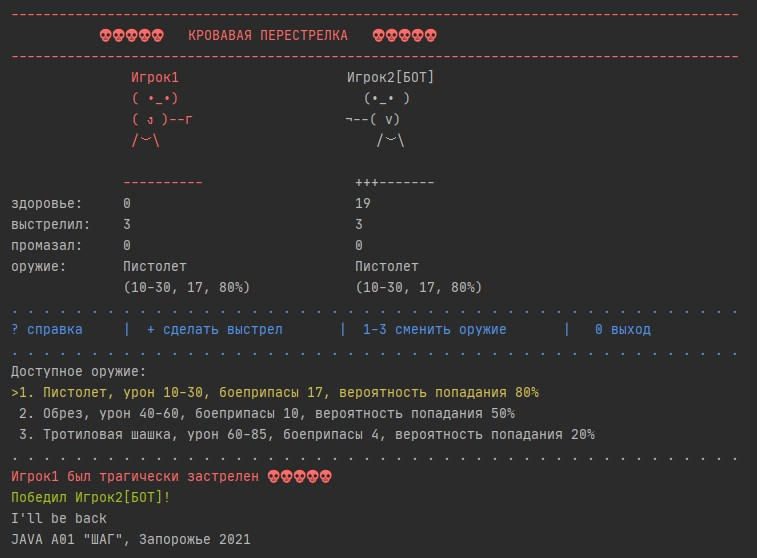
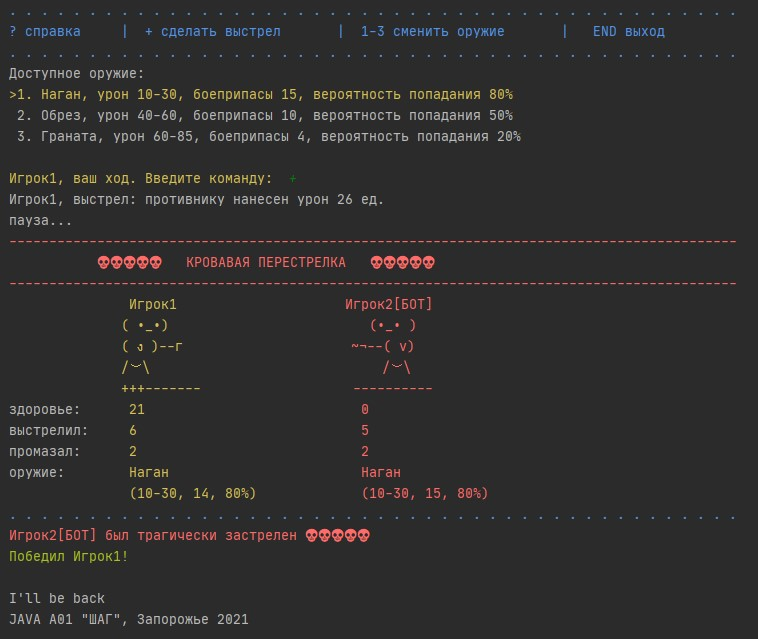
refactoring player, bot, game etc.

diff --git a/src/hw10_2_game_gunplay/Game.java b/src/hw10_2_game_gunplay/Game.java
@@ -4,21 +4,23 @@ import java.util.Scanner;
 
 public class Game {
 
-    private static final String VERSION = "ver.1.5";
+    private static final String VERSION = "ver.1.6";
     private static final String COLOR_FOCUS = Color.ANSI_YELLOW;
     private static final String COLOR_DEAD = Color.ANSI_RED;
     private static final String COLOR_HELP = Color.ANSI_BLUE;
     private static final String COLOR_FOOTER = Color.ANSI_BLUE;
     private static final String COLOR_HEADER = Color.ANSI_RED;
 
+
     private static final char POINTER = '>';
 
     private static final String NAME1 = "Игрок1";
     private static final String NAME2 = "Игрок2";
     private static final String KEY_HELP = "?";
-    private static final String KEY_SHOOT = "+";
+    public static final String KEY_SHOOT = "+";
     private static final String KEY_KILL = "#";
     private static final String KEY_EXIT = "END";
+    private static final String EMPTY_STR = "";
 
     private static final int MODE_PLAYER = 1;
     private static final int MODE_BOT = 2;
@@ -37,7 +39,6 @@ public class Game {
 
     //========== основной блок ==================
     public void go() {
-        String cmd;
         int mode = inputGameMode();
         initPlayers(mode);
         firstPlayer();  //фокус на первого игрока
@@ -46,12 +47,11 @@ public class Game {
         printPage();
 
         while (true) {
-            Color.printColorYellow(currentPlayer.getName() + ", ваш ход. Введите команду:  ");
-            cmd = currentPlayer.nextCmd(sc);
-            if(isExitGame(cmd)) {
+            String command = inputCommand();
+            if(isExitGame(command)) {
                 break;
             }
-            processCmd(cmd);
+            processCmd(command);
 
             if (isWinGame()) {
                 printOnWin();
@@ -63,6 +63,11 @@ public class Game {
         System.out.println();
         System.out.println("I'll be back");
         System.out.println("JAVA A01 \"ШАГ\", Запорожье 2021");
+    }
+
+    private String inputCommand() {
+        Color.printColorYellow(currentPlayer.getName() + ", ваш ход. Введите команду:  ");
+        return currentPlayer.nextCmd(sc);
     }
     //============================================
 
@@ -112,7 +117,7 @@ public class Game {
     private void printFooter() {
         String text = String.format("%s справка     |  %s сделать выстрел       |  1-%d сменить оружие       |   %s выход   ", KEY_HELP,
                 KEY_SHOOT,
-                currentPlayer.getNumGuns(),
+                currentPlayer.getGunsSize(),
                 KEY_EXIT);
         Color.printlnColor(text, COLOR_FOOTER);
         Color.printlnColor(". . . . . . . . . . . . . . . . . . . . . . . . . . . . . . . . . . . . . . . . . . . . . .",
@@ -136,19 +141,43 @@ public class Game {
         printPlayers();
 
         //дополнительная информация по игрокам
-        Color.printColor(String.format("              %-15s", player1.getStrHpLine()), color1);
-        Color.printColor(String.format("              %-15s     \n", player2.getStrHpLine()), color2);
+        Color.printColor(String.format("%13s %-15s ", EMPTY_STR, player1.getStrHpLine()), color1);
+        Color.printColor(String.format("%13s %-15s \n", EMPTY_STR, player2.getStrHpLine()), color2);
 
-        System.out.printf("здоровье:     %-17d            %-17d     \n", player1.getHitPoint(), player2.getHitPoint());
-        System.out.printf("выстрелил:    %-17d            %-17d     \n", player1.getCntShot(), player2.getCntShot());
-        System.out.printf("промазал:     %-17d            %-17d     \n", player1.getCntMiss(), player2.getCntMiss());
-        System.out.printf("оружие:       %-17s            %-17s     \n", player1.nameGun(), player2.nameGun());
-        System.out.printf("              %-17s            %-17s            \n", player1.shortGunInfo(), player2.shortGunInfo());
+        printItem("здоровье", player1.getHitPoint(), player2.getHitPoint());
+        printItem("выстрелил", player1.getCntShot(), player2.getCntShot());
+        printItem("промазал", player1.getCntMiss(), player2.getCntMiss());
+        printItem("оружие", player1.nameGun(), player2.nameGun());
+        printItem(EMPTY_STR, player1.shortGunInfo(), player2.shortGunInfo());
+
         Color.printlnColor(". . . . . . . . . . . . . . . . . . . . . . . . . . . . . . . . . . . . . . . . . . . . . .", COLOR_FOOTER);
 
         if (!isWinGame()) {
             printFooter();
         }
+
+    }
+
+    private void printItem(String nameItem, int item1, int item2) {
+        printItem(nameItem, String.valueOf(item1), String.valueOf(item2));
+    }
+
+    private void printItem(String nameItem, String item1, String item2) {
+        if(!nameItem.equalsIgnoreCase(EMPTY_STR)) {
+            nameItem += ":";
+        }
+
+        nameItem = String.format("%-15s", nameItem);
+
+        String format = "%-17s";
+        item1 = String.format(format, item1);
+        item2 = String.format(format, item2);
+
+        System.out.print(nameItem);
+        Color.printColor(item1, getColorPlayer(player1));
+        System.out.printf("%12s",EMPTY_STR);
+        Color.printColor(item2, getColorPlayer(player2));
+        System.out.println();
 
     }
 
@@ -166,7 +195,8 @@ public class Game {
                 ch = ' ';
                 color = Color.ANSI_RESET;
             }
-            Color.printColor(String.format("%c%d. %s   \n", ch, i + 1, guns[i].info()), color);
+            String text = String.format("%c%d. %s   \n", ch, i + 1, guns[i].info());
+            Color.printColor(text, color);
         }
 
     }
@@ -175,6 +205,7 @@ public class Game {
         Color.setTextColor(COLOR_HELP);
         System.out.println("-----");
         System.out.println("Бандитская перестрелка в зловещих подворотнях Запорожья");
+        System.out.println("Чит-код убить контрагента сразу: " + KEY_KILL);
         System.out.println("https://github.com/AlexeyPertsukh/hw10-java-polymorphism-game-gunplay");
         System.out.println("-----");
         Color.resetTextColor();
@@ -238,7 +269,7 @@ public class Game {
 
     private boolean changeGun(int num) {
         //сменить пушку
-        if (num > 0 && num < currentPlayer.getNumGuns() + 1) {
+        if (num > 0 && num < currentPlayer.getGunsSize() + 1) {
             if (currentPlayer.changeGun(num)) {
                 return true;
             } else {
@@ -251,6 +282,10 @@ public class Game {
 
     //меняем игрока
     private void nextPlayer() {
+        if(otherPlayer.isDead()) {
+            return;
+        }
+
         if(currentPlayer == player1) {
             currentPlayer = player2;
             otherPlayer = player1;
@@ -276,7 +311,7 @@ public class Game {
         String color1 = getColorPlayer(player1);
         String color2 = getColorPlayer(player2);
 
-        Color.printColor(String.format("%-12s   %-25s", "", player1.getName()), color1);
+        Color.printColor(String.format("%-12s   %-25s", EMPTY_STR, player1.getName()), color1);
         Color.printColor(String.format("  %-25s \n",  player2.getName()), color2 );
 
         String[] pic1 = player1.getPicture();
@@ -286,12 +321,12 @@ public class Game {
         String str1;
         String str2;
         for (int i = 0; i < max; i++) {
-            System.out.printf("%14s","");
+            System.out.printf("%14s",EMPTY_STR);
 
             str1 = String.format("%-10s", pic1[i]);
             Color.printColor(str1, color1);
 
-            System.out.printf("%19s","");
+            System.out.printf("%19s",EMPTY_STR);
 
             str2 = String.format("%-10s", pic2[i]);
             Color.printColor(str2, color2);
@@ -320,9 +355,9 @@ public class Game {
 
     private Gun[] createGuns() {
         return new Gun[]{
-                new Gun("Пистолет", 10, 30, 20, 80),
+                new Gun("Наган", 10, 30, 20, 80),
                 new Gun("Обрез", 40, 60, 10, 50),
-                new Gun("Тротиловая шашка", 60, 85, 4, 20)
+                new Gun("Граната", 60, 85, 4, 20)
         };
     }
 

diff --git a/src/hw10_2_game_gunplay/Bot.java b/src/hw10_2_game_gunplay/Bot.java
@@ -5,6 +5,8 @@ import java.util.Scanner;
 //Бот
 public class Bot extends Player{
 
+    private final static int PAUSE = 700;
+
     public Bot(int hitPoint, Gun[] guns, String[] picture) {
         this("noname[БОТ]", hitPoint, guns, picture);
     }
@@ -17,10 +19,10 @@ public class Bot extends Player{
     //при случае добавить- если закончились патроны, выбрать другое оружие
     @Override
     public String nextCmd(Scanner sc) {
-        Util.sleep(1000);         //пауза
-        String str = "+";           //просто стреляем
+        Util.sleep(PAUSE);         //пауза
+        String str = Game.KEY_SHOOT;           //просто стреляем
         System.out.println(str);
-        Util.sleep(1000);
+        Util.sleep(PAUSE);
         return str;
     }
 

diff --git a/src/hw10_2_game_gunplay/Player.java b/src/hw10_2_game_gunplay/Player.java
@@ -6,9 +6,7 @@ import java.util.Scanner;
 public class Player {
 
     public static int HP_MAX = 60;
-    public static final String COLOR_FOCUS = Color.ANSI_YELLOW;
     public static final int NUM_FIRST_GUN = 1;
-
 
     private final Gun[] guns;
     private Gun currentGun;
@@ -85,7 +83,7 @@ public class Player {
         }
         cntShot++;
 
-        if (damage == 0) {
+        if (damage == Gun.CODE_MISSED) {
             cntMiss++;
             return Gun.CODE_MISSED;
         }
@@ -110,7 +108,7 @@ public class Player {
     }
 
     //количество пушек
-    public int getNumGuns() {
+    public int getGunsSize() {
         return guns.length;
     }
 

diff --git a/src/hw10_2_game_gunplay/Gun.java b/src/hw10_2_game_gunplay/Gun.java
@@ -30,10 +30,9 @@ public class Gun {
 
         int damage = (int) (Math.random() * (damageMax - damageMin)) + damageMin;
 
-        int random0to100 = (int) (Math.random() * 100);
-//        System.out.println(":: " + random0to100); //проверка
-        if( random0to100 > percentageHit) {   //промахнулся?
-            damage = 0;
+        int random = (int) (Math.random() * 100);
+        if( random > percentageHit) {   //промахнулся?
+            damage = CODE_MISSED;
         }
         cartridge--;
         return damage;

diff --git a/src/hw10_2_game_gunplay/PictureStorage.java b/src/hw10_2_game_gunplay/PictureStorage.java
@@ -12,7 +12,7 @@ public class PictureStorage {
 
     public static final String[] ASCII_PICTURE_RIGHT = {
             "  (•_• ) ",
-            "˥--( v)  ",
-            "   /︶\\ ",
+            "~¬--( v)   ",
+            "   /︶\\  ",
     };
 }
